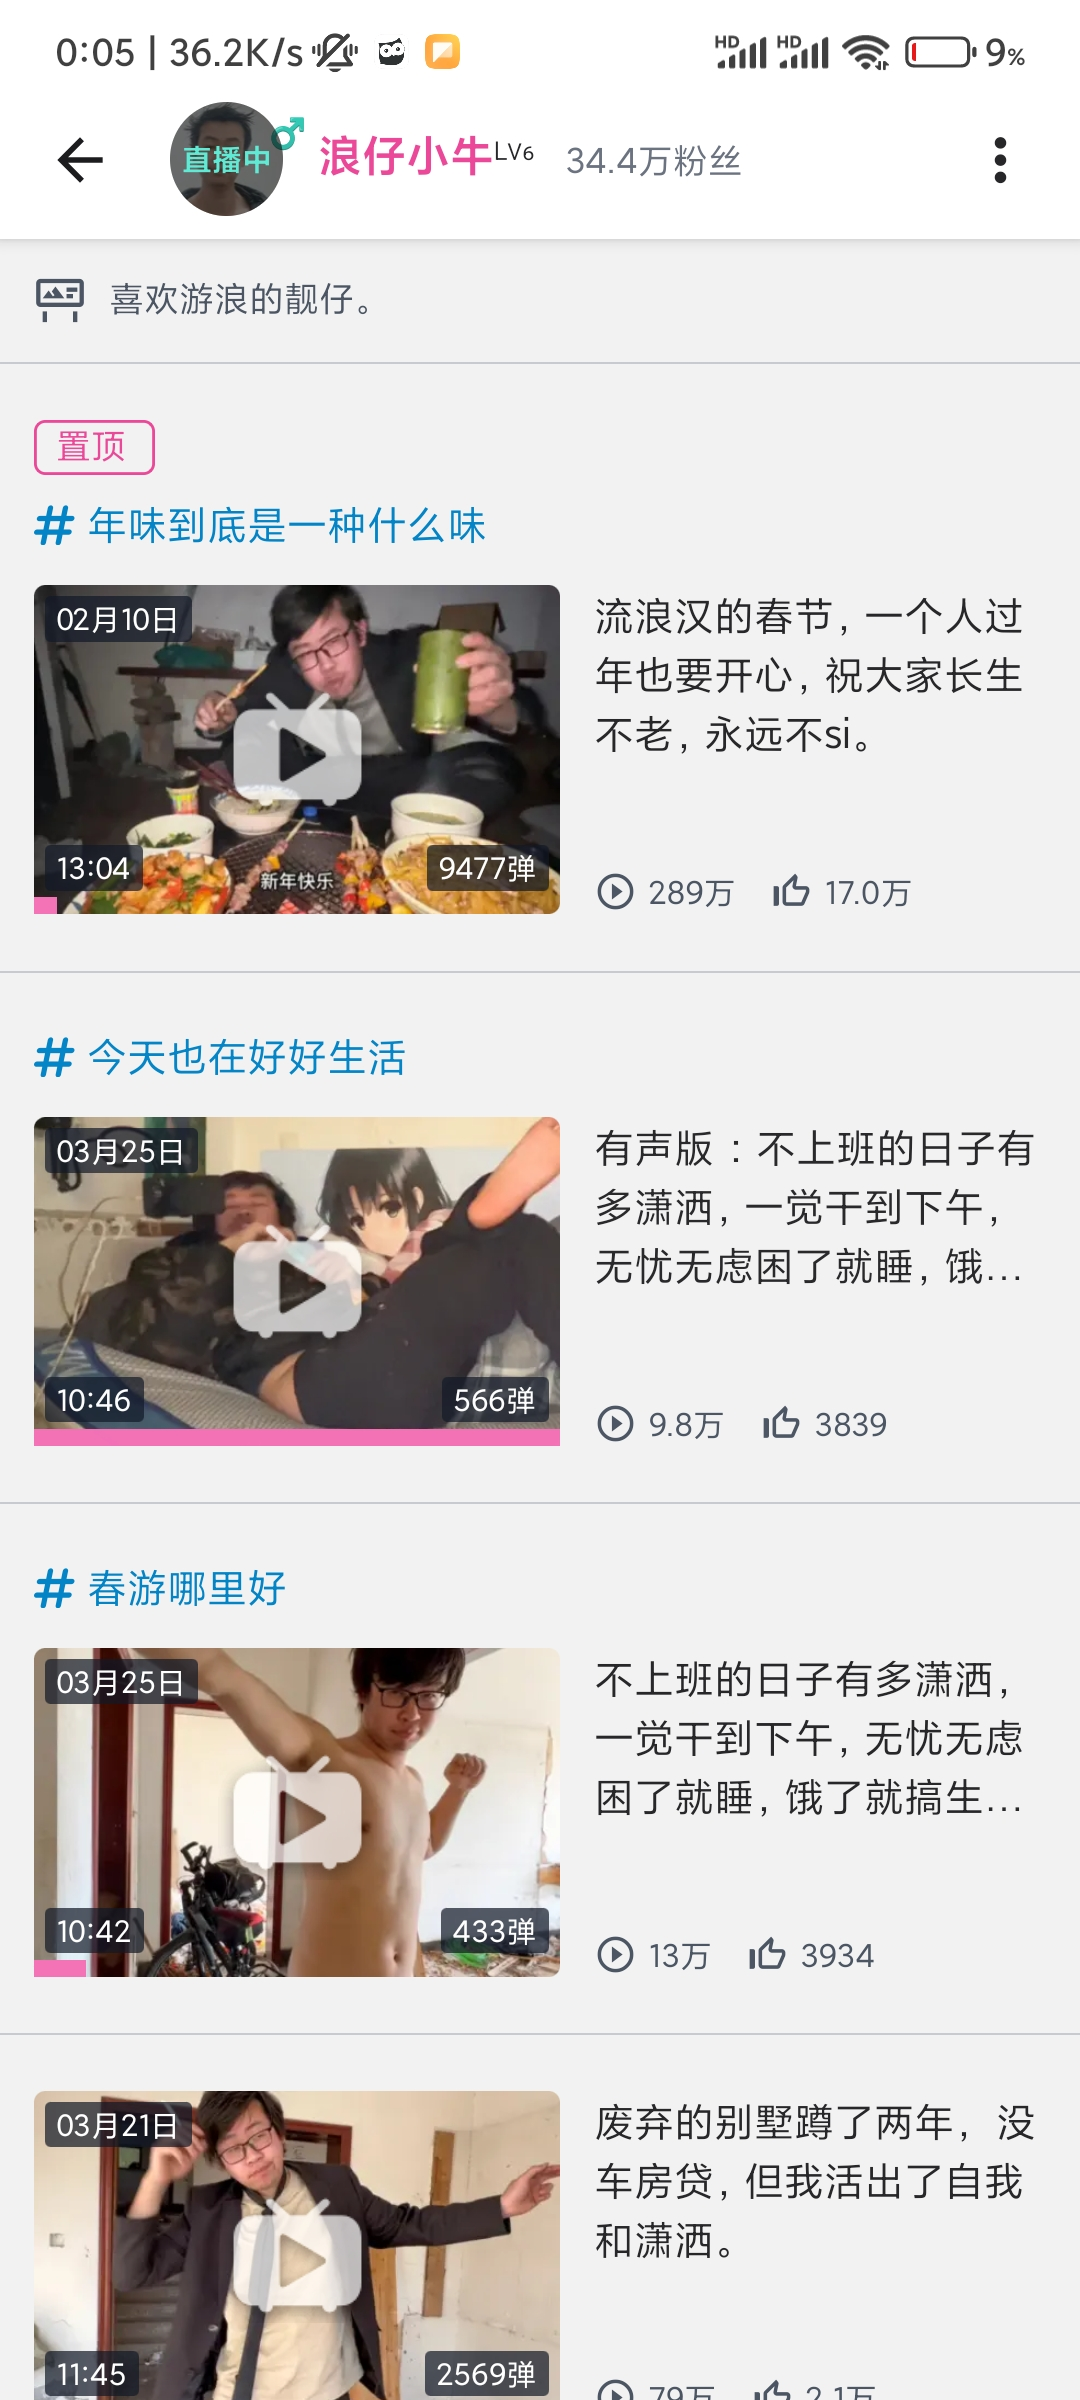
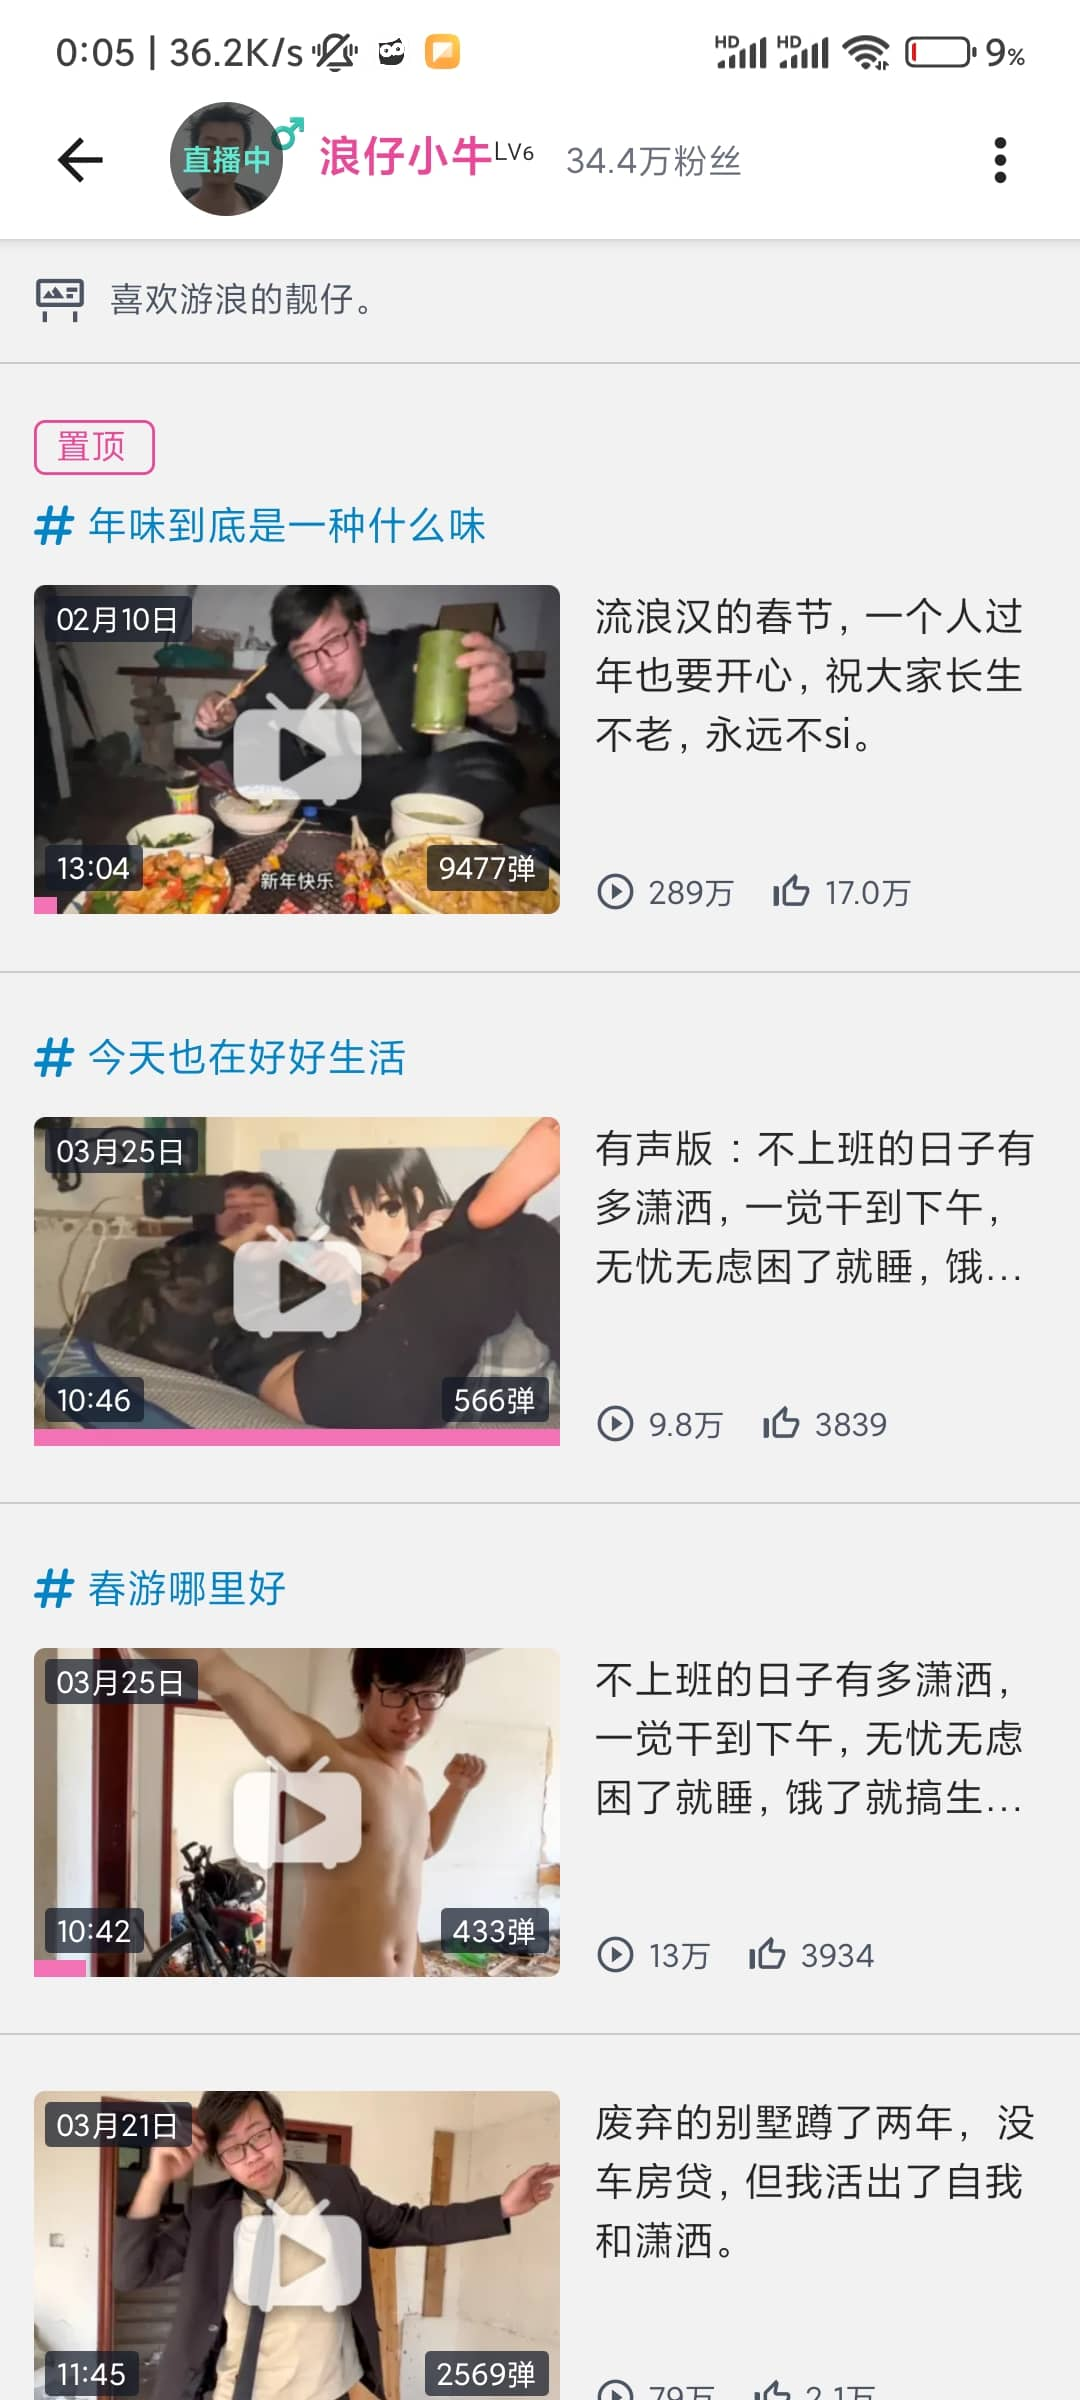
-

diff --git a/src/routes/Play/Player.tsx b/src/routes/Play/Player.tsx
@@ -4,7 +4,6 @@ import {
   useNavigation,
   useRoute,
 } from '@react-navigation/native'
-import { Icon } from '@rneui/themed'
 import * as KeepAwake from 'expo-keep-awake'
 import React from 'react'
 import {
@@ -19,6 +18,7 @@ import {
 import WebView, { type WebViewMessageEvent } from 'react-native-webview'
 
 import { usePlayUrl } from '@/api/play-url'
+import Image2 from '@/components/Image2'
 import { UA } from '@/constants'
 import { colors } from '@/constants/colors.tw'
 import { useMarkVideoWatched } from '@/store/actions'
@@ -26,7 +26,6 @@ import type { NavigationProps, RootStackParamList } from '@/types'
 
 import { useVideoInfo } from '../../api/video-info'
 import { useAppStateChange } from '../../hooks/useAppState'
-import useMounted from '../../hooks/useMounted'
 import { useStore } from '../../store'
 import { parseDuration, parseImgUrl, showToast } from '../../utils'
 import { INJECTED_JAVASCRIPT } from './inject-play'
@@ -95,11 +94,11 @@ function Player(props: { currentPage: number; currentCid?: number }) {
       KeepAwake.deactivateKeepAwake('PLAY')
     }
   })
-  useMounted(() => {
-    if (!isWifi) {
-      showToast('注意流量')
-    }
-  })
+  // useMounted(() => {
+  //   if (!isWifi) {
+  //     showToast('注意流量')
+  //   }
+  // })
   const navigation = useNavigation<NavigationProps['navigation']>()
 
   useFocusEffect(
@@ -271,16 +270,16 @@ function Player(props: { currentPage: number; currentCid?: number }) {
             source={{ uri: parseImgUrl(videoInfo.cover, 500, 312) }}
             resizeMode="cover"
             className="flex-1 justify-center items-center">
-            <Icon
-              name="television-play"
-              type="material-community"
-              size={60}
-              color={'white'}
+            <Image2
+              source={require('../../../assets/play.png')}
+              className="w-20"
             />
             <View className="absolute bottom-2 left-2 flex-row gap-2">
-              <Text className="rounded bg-gray-900/60 py-[2px] px-2 text-white font-bold">
-                {parseDuration(videoInfo?.duration)}
-              </Text>
+              {videoInfo?.duration ? (
+                <Text className="rounded bg-gray-900/60 py-[2px] px-2 text-white font-bold">
+                  {parseDuration(videoInfo?.duration)}
+                </Text>
+              ) : null}
               <Text className="rounded bg-gray-900/60 py-[2px] px-2 text-white font-bold">
                 播放将消耗流量
               </Text>

diff --git a/src/routes/Dynamic/Header.tsx b/src/routes/Dynamic/Header.tsx
@@ -38,7 +38,7 @@ export function HeaderLeft(props: { scrollTop: () => void }) {
       })
     }
   }
-  const level = dynamicUser?.level ? 'ᴸⱽ' + levelList[dynamicUser.level] : ''
+  const level = dynamicUser?.level ? levelList[dynamicUser.level] : ''
   const userName = dynamicUser?.name || '' // ? dynamicUser.name + level : ''
   const sex =
     dynamicUser?.sex === '男' ? '♂' : dynamicUser?.sex === '女' ? '♀' : ''
@@ -96,7 +96,7 @@ export function HeaderLeft(props: { scrollTop: () => void }) {
             props.scrollTop()
           }}>
           {userName}
-          <Text className="text-sm">{level + '   '}</Text>
+          <Text className="text-lg">{level + '  '}</Text>
         </Text>
         {fans ? (
           <Text

diff --git a/src/components/ImagesView.tsx b/src/components/ImagesView.tsx
@@ -94,14 +94,14 @@ function ImagesView() {
                   initWidth={96}
                   initHeight={96}
                   style={{ width: imgWidth, height: imgHeight }}
-                  placeholder={require('../../assets/loading.png')}
+                  placeholder={require('../../assets/loading.gif')}
                 />
               )
               imageView = imageCompCache.current[v.url]
             } else {
               imageView = (
                 <Image
-                  source={require('../../assets/loading.png')}
+                  source={require('../../assets/loading.gif')}
                   className="w-24 h-24"
                 />
               )

diff --git a/src/components/ReplyList.tsx b/src/components/ReplyList.tsx
@@ -39,8 +39,13 @@ export default function ReplyList() {
       isVisible={!!repliesInfo}>
       <View className="h-[68vh] bg-neutral-100 dark:bg-neutral-700">
         <View className="py-2 px-3 flex-row items-center border-gray-500 justify-between">
-          <Text className="text-lg font-semibold">
-            评论详情{typeof allCount === 'number' ? `（${allCount}条）` : ''}
+          <Text className="text-base font-semibold">
+            评论详情
+            {typeof allCount === 'number'
+              ? `（${allCount}条）`
+              : isLoading
+                ? '...'
+                : ''}
           </Text>
           <Icon
             name="close"

diff --git a/src/routes/SearchVideos/index.tsx b/src/routes/SearchVideos/index.tsx
@@ -1,3 +1,4 @@
+import { useBackHandler } from '@react-native-community/hooks'
 import React from 'react'
 import type { SearchBarCommands } from 'react-native-screens'
 
@@ -11,6 +12,15 @@ function SearchVideos() {
   const searchBarRef = React.useRef<SearchBarCommands | null>(null)
   const blackColor = tw(colors.black.text).color
   const [searchKeyWord, setSearchKeyWord] = React.useState('')
+  useBackHandler(() => {
+    if (searchKeyWord) {
+      searchBarRef.current?.blur()
+      searchBarRef.current?.setText('')
+      setSearchKeyWord('')
+      return true
+    }
+    return false
+  })
   useUpdateNavigationOptions(
     React.useMemo(() => {
       return {

diff --git a/src/components/Image2.tsx b/src/components/Image2.tsx
@@ -16,7 +16,7 @@ function Image2(
   >(null)
 
   let style: ImageProps['style'] = React.useMemo(() => {
-    const imgStyle = StyleSheet.flatten(props.style)
+    const imgStyle = StyleSheet.flatten(props.style) || {}
 
     if (sourceInfo) {
       const aspectRatio =
